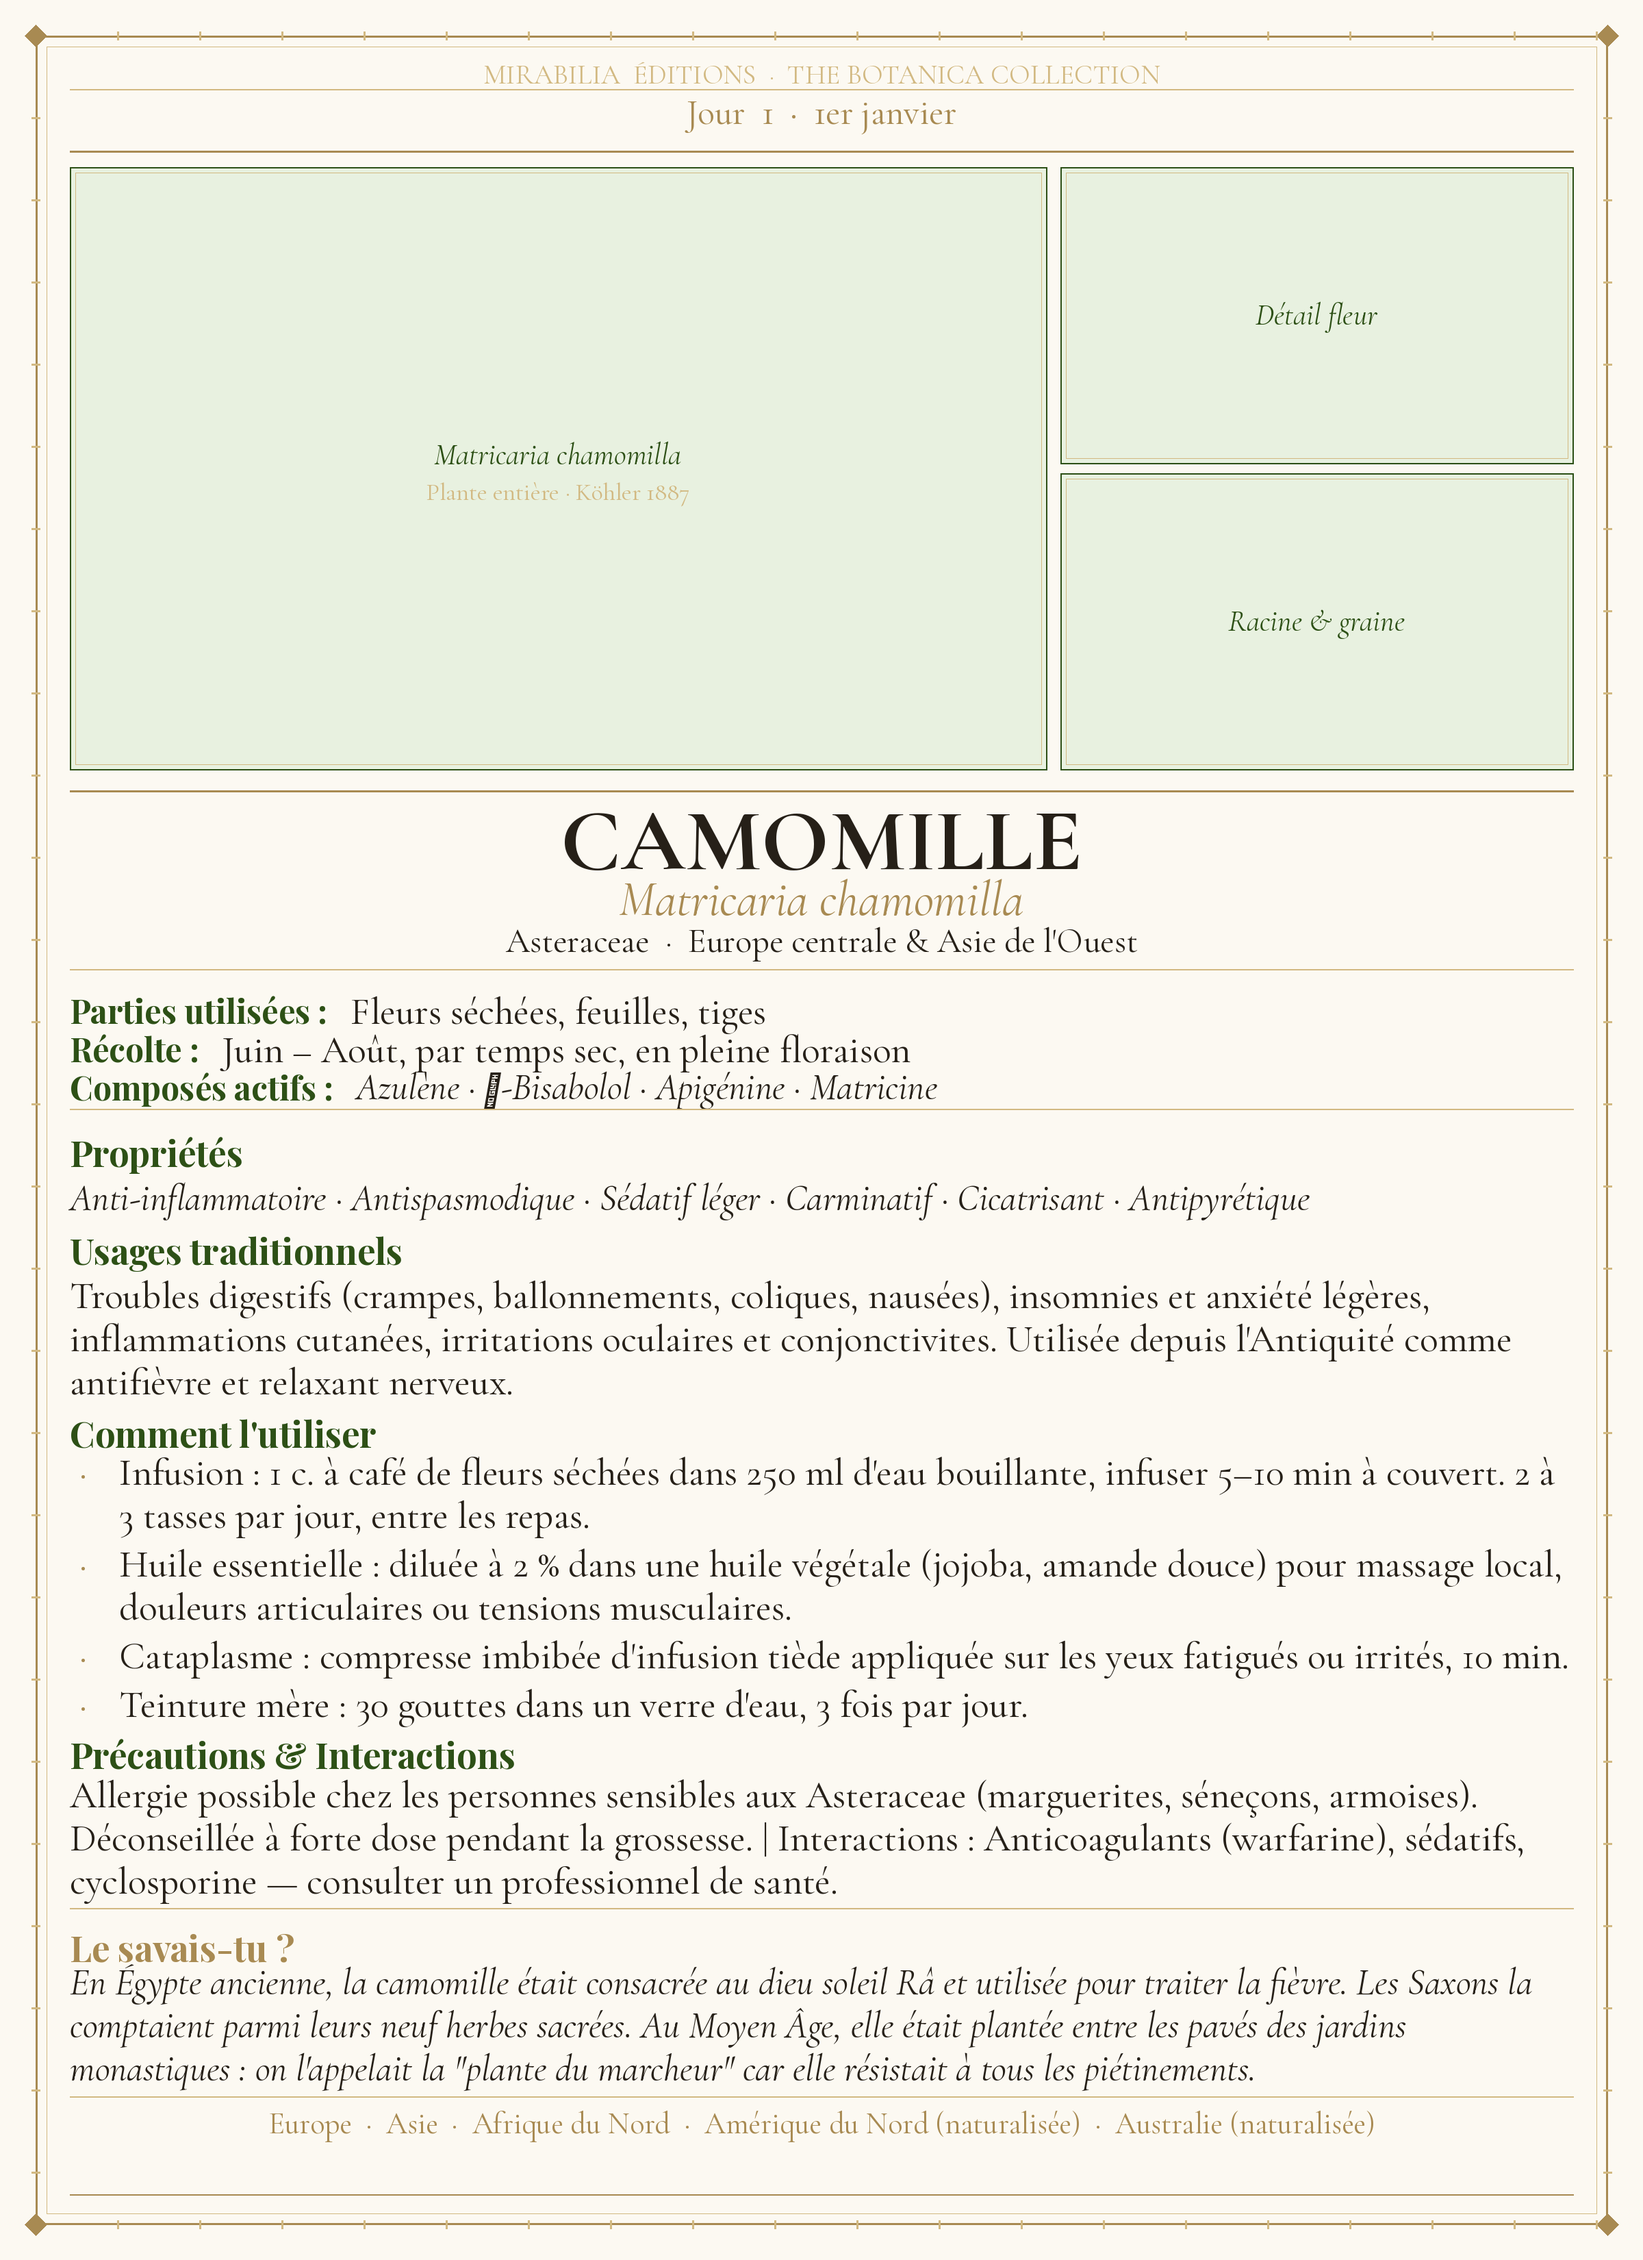
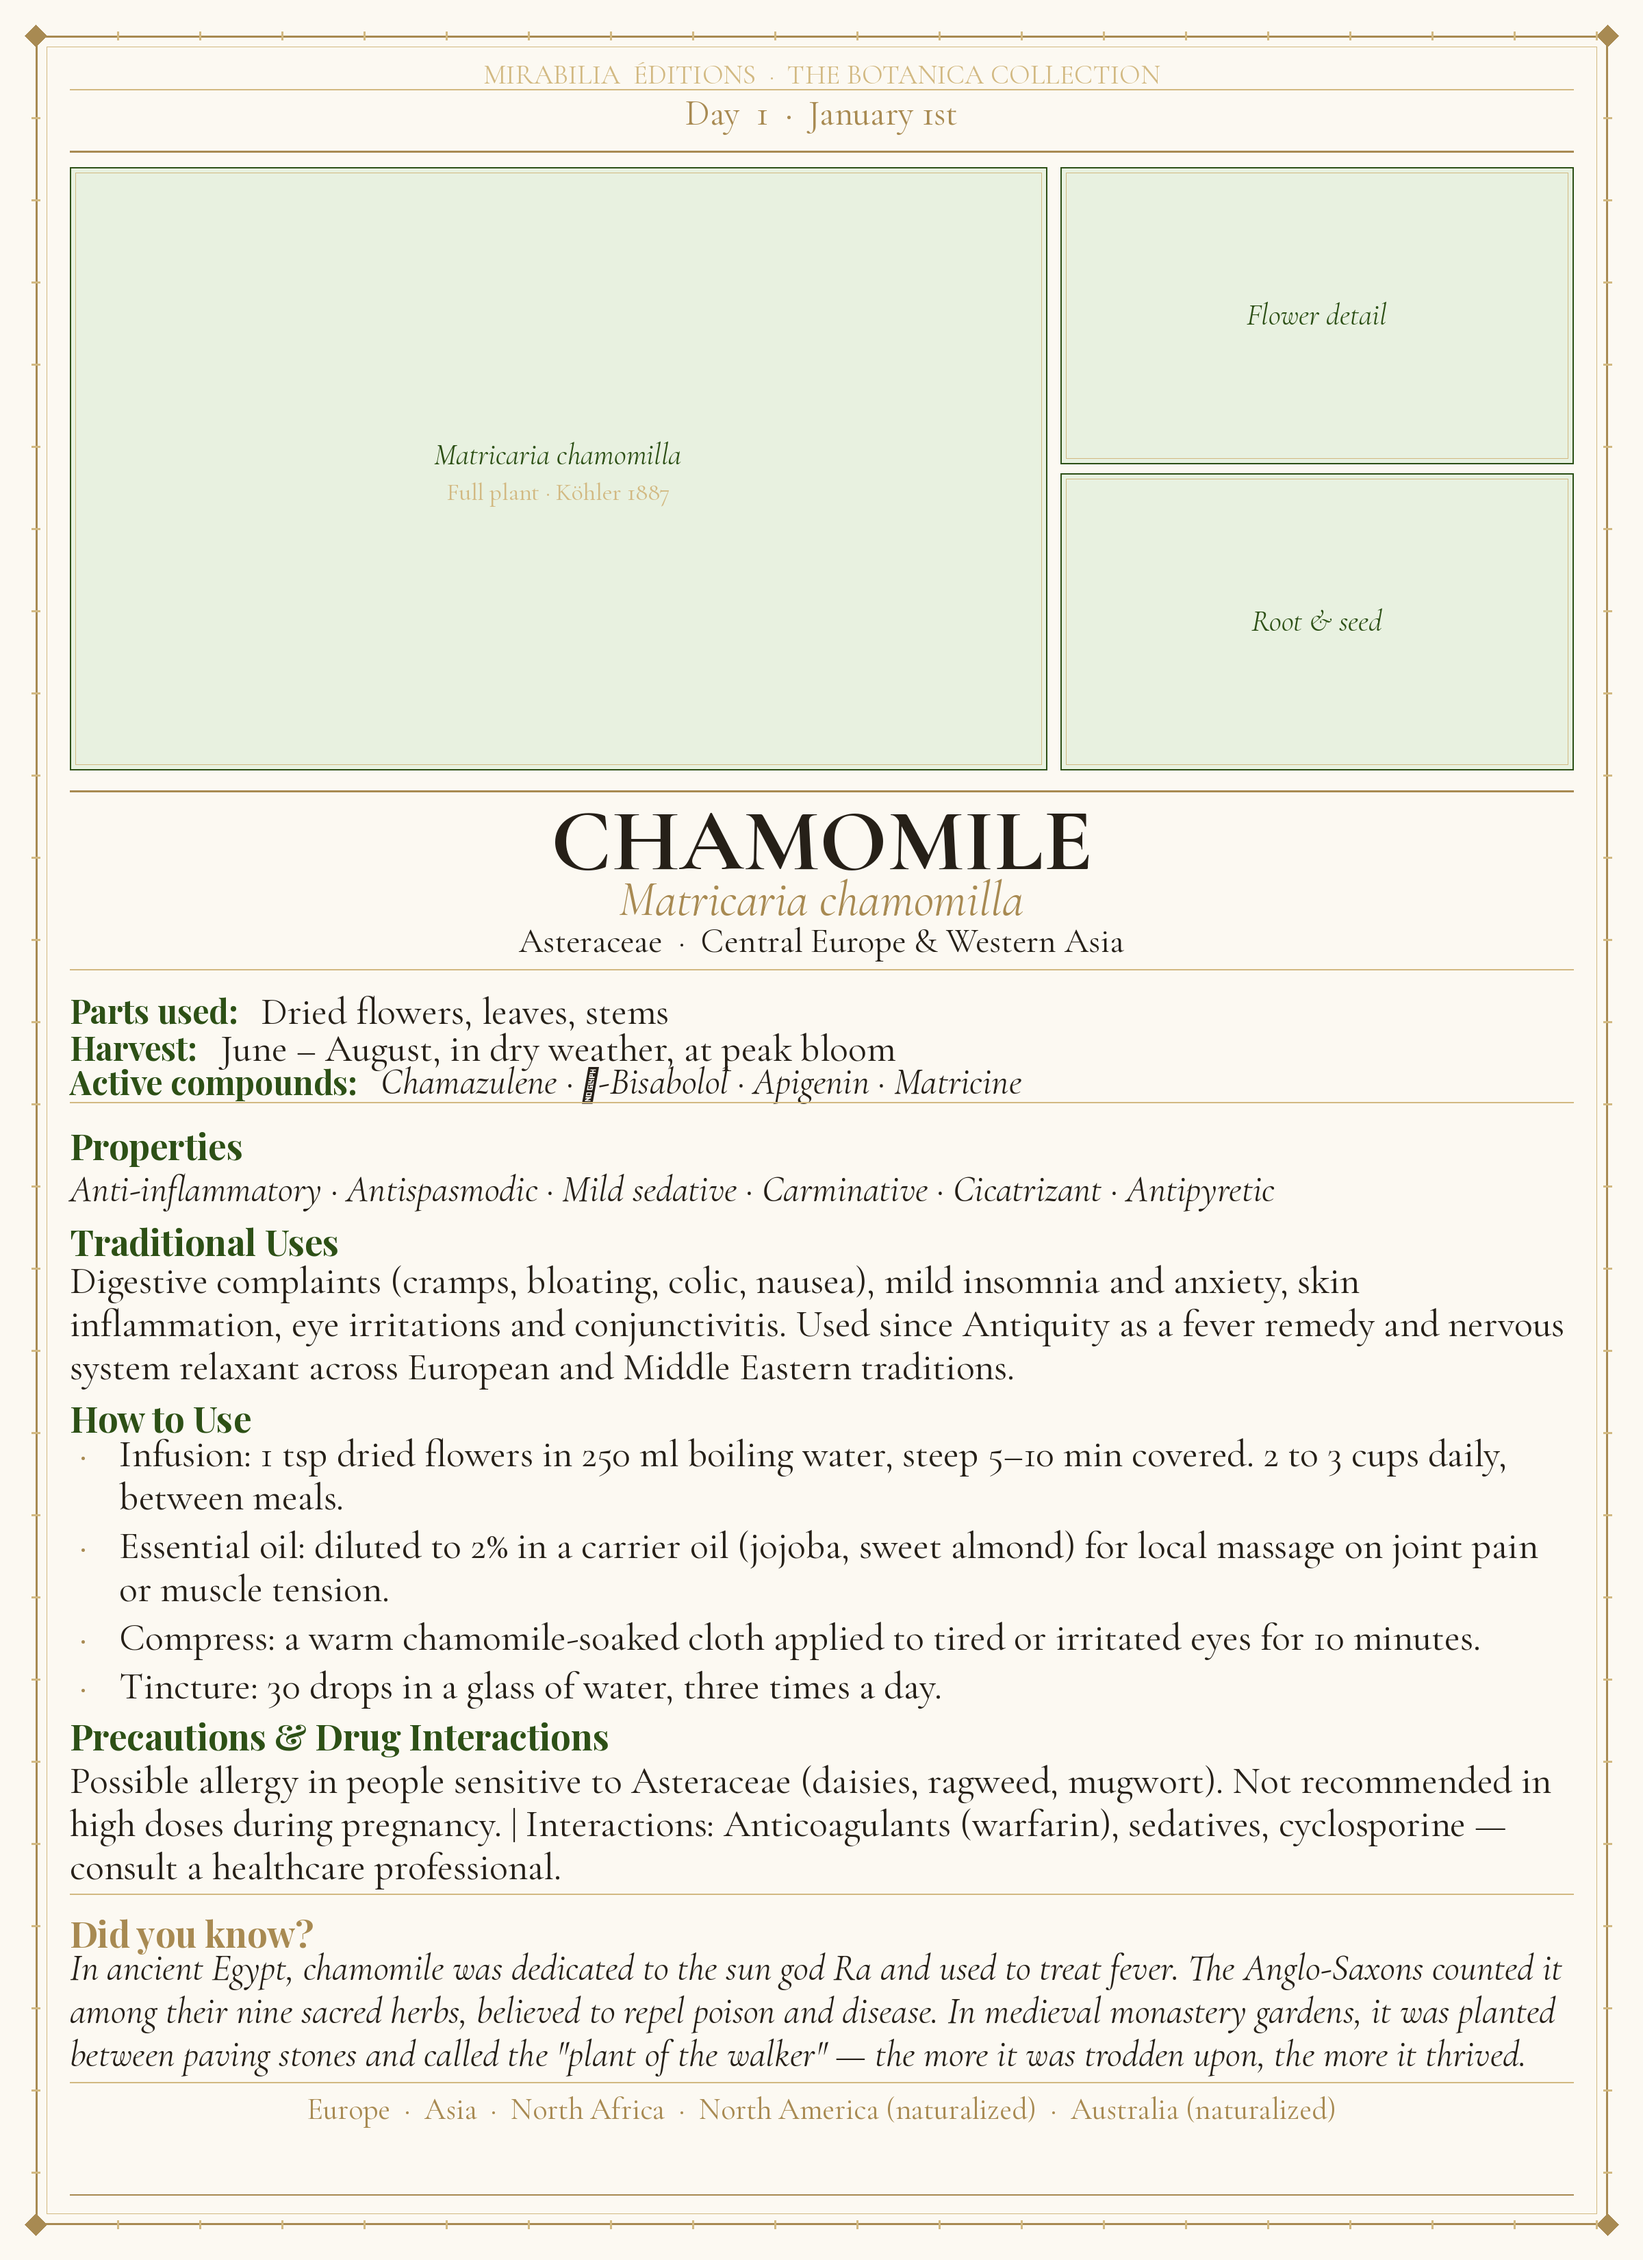
Translate Botanica page to English and add illustration path params
All section labels and content translated to English. Demo call
updated with chamomile content in English and illus_main/detail1/detail2
path params ready for Köhler illustration injection.

https://claude.ai/code/session_018BNd1Ba7eFukj4va47McZo

diff --git a/make_botanica_page.py b/make_botanica_page.py
@@ -196,7 +196,7 @@ def make_botanica_page(
     y += 18
 
     # ── Day + date ────────────────────────────────────────────────────
-    d.text((CX, y), f"Jour  {day_num}  ·  {date_str}",
+    d.text((CX, y), f"Day  {day_num}  ·  {date_str}",
            fill=GOLD, font=fn_day, anchor="mt")
     y += text_h("Ag", fn_day, d) + 22
 
@@ -216,14 +216,14 @@ def make_botanica_page(
         d.rectangle([MARGIN, y, main_x1, y + ILLUS_H], outline=LGOLD, width=1)
     else:
         illus_placeholder(img, d, MARGIN, y, main_x1, y + ILLUS_H,
-                          f"{name_la}", "Plante entière · Köhler 1887")
+                          f"{name_la}", "Full plant · Köhler 1887")
 
     # Detail 1
     if illus_detail1 and paste_illustration(img, illus_detail1, detail_x0, y, detail_x1, y + detail_h):
         d.rectangle([detail_x0, y, detail_x1, y + detail_h], outline=LGOLD, width=1)
     else:
         illus_placeholder(img, d, detail_x0, y, detail_x1, y + detail_h,
-                          "Détail fleur")
+                          "Flower detail")
 
     # Detail 2
     dy2 = y + detail_h + 14
@@ -231,7 +231,7 @@ def make_botanica_page(
         d.rectangle([detail_x0, dy2, detail_x1, dy2 + detail_h], outline=LGOLD, width=1)
     else:
         illus_placeholder(img, d, detail_x0, dy2, detail_x1, dy2 + detail_h,
-                          "Racine & graine")
+                          "Root & seed")
 
     y += ILLUS_H + 30
 
@@ -253,42 +253,42 @@ def make_botanica_page(
     y += 28
 
     # ── Quick-ref inline row ──────────────────────────────────────────
-    y = inline_pair(d, y, "Parties utilisées : ", parts_used, fn_label, fn_body)
-    y = inline_pair(d, y, "Récolte : ",           harvest,    fn_label, fn_body)
-    y = inline_pair(d, y, "Composés actifs : ",   active_compounds, fn_label, fn_props)
+    y = inline_pair(d, y, "Parts used: ",         parts_used,       fn_label, fn_body)
+    y = inline_pair(d, y, "Harvest: ",            harvest,          fn_label, fn_body)
+    y = inline_pair(d, y, "Active compounds: ",   active_compounds, fn_label, fn_props)
 
     hline(d, y, color=LGOLD, h=1)
     y += 28
 
     # ── Propriétés ────────────────────────────────────────────────────
-    y = sec(d, y, "Propriétés", fn_sec)
+    y = sec(d, y, "Properties", fn_sec)
     y = body_block(d, y, properties, fn_props)
 
-    # ── Usages traditionnels ──────────────────────────────────────────
-    y = sec(d, y, "Usages traditionnels", fn_sec)
+    # ── Traditional uses ──────────────────────────────────────────────
+    y = sec(d, y, "Traditional Uses", fn_sec)
     y = body_block(d, y, traditional_uses, fn_body)
 
-    # ── Comment l'utiliser ────────────────────────────────────────────
-    y = sec(d, y, "Comment l'utiliser", fn_sec)
+    # ── How to use ────────────────────────────────────────────────────
+    y = sec(d, y, "How to Use", fn_sec)
     for item in how_to_use:
         y = bullet(d, y, item, fn_body)
 
-    # ── Précautions & Interactions ────────────────────────────────────
-    y = sec(d, y, "Précautions & Interactions", fn_sec)
-    y = body_block(d, y, f"{precautions}  |  Interactions : {interactions}", fn_body)
+    # ── Precautions & Interactions ────────────────────────────────────
+    y = sec(d, y, "Precautions & Drug Interactions", fn_sec)
+    y = body_block(d, y, f"{precautions}  |  Interactions: {interactions}", fn_body)
 
     hline(d, y, color=LGOLD, h=1)
     y += 22
 
-    # ── Le savais-tu ──────────────────────────────────────────────────
-    d.text((MARGIN, y), "Le savais-tu ?", fill=GOLD, font=fn_sec)
+    # ── Did you know ──────────────────────────────────────────────────
+    d.text((MARGIN, y), "Did you know?", fill=GOLD, font=fn_sec)
     y += text_h("A", fn_sec, d) + 16
     y = body_block(d, y, cultural_note, fn_note, color=DARK)
 
     hline(d, y, color=LGOLD, h=1)
     y += 20
 
-    # ── Présente dans ─────────────────────────────────────────────────
+    # ── Found in ──────────────────────────────────────────────────────
     d.text((CX, y), regions, fill=GOLD, font=fn_tag, anchor="mt")
 
     # ── Bottom rule inside border ─────────────────────────────────────
@@ -298,58 +298,60 @@ def make_botanica_page(
     img.save(out_name)
 
 
-# ── Demo — Camomille ──────────────────────────────────────────────────────────
+# ── Demo — Chamomile ──────────────────────────────────────────────────────────
 
 make_botanica_page(
     day_num   = 1,
-    date_str  = "1er janvier",
-    name_fr   = "Camomille",
+    date_str  = "January 1st",
+    name_fr   = "Chamomile",
     name_la   = "Matricaria chamomilla",
     family    = "Asteraceae",
-    origin    = "Europe centrale & Asie de l'Ouest",
+    origin    = "Central Europe & Western Asia",
 
-    parts_used       = "Fleurs séchées, feuilles, tiges",
-    harvest          = "Juin – Août, par temps sec, en pleine floraison",
-    active_compounds = "Azulène · α-Bisabolol · Apigénine · Matricine",
+    parts_used       = "Dried flowers, leaves, stems",
+    harvest          = "June – August, in dry weather, at peak bloom",
+    active_compounds = "Chamazulene · α-Bisabolol · Apigenin · Matricine",
 
     properties = (
-        "Anti-inflammatoire  ·  Antispasmodique  ·  Sédatif léger  ·  "
-        "Carminatif  ·  Cicatrisant  ·  Antipyrétique"
+        "Anti-inflammatory  ·  Antispasmodic  ·  Mild sedative  ·  "
+        "Carminative  ·  Cicatrizant  ·  Antipyretic"
     ),
     traditional_uses = (
-        "Troubles digestifs (crampes, ballonnements, coliques, nausées), "
-        "insomnies et anxiété légères, inflammations cutanées, irritations "
-        "oculaires et conjonctivites. Utilisée depuis l'Antiquité comme "
-        "antifièvre et relaxant nerveux."
+        "Digestive complaints (cramps, bloating, colic, nausea), mild insomnia "
+        "and anxiety, skin inflammation, eye irritations and conjunctivitis. "
+        "Used since Antiquity as a fever remedy and nervous system relaxant "
+        "across European and Middle Eastern traditions."
     ),
     how_to_use = [
-        "Infusion : 1 c. à café de fleurs séchées dans 250 ml d'eau bouillante, "
-        "infuser 5–10 min à couvert. 2 à 3 tasses par jour, entre les repas.",
-        "Huile essentielle : diluée à 2 % dans une huile végétale (jojoba, amande douce) "
-        "pour massage local, douleurs articulaires ou tensions musculaires.",
-        "Cataplasme : compresse imbibée d'infusion tiède appliquée sur les yeux "
-        "fatigués ou irrités, 10 min.",
-        "Teinture mère : 30 gouttes dans un verre d'eau, 3 fois par jour.",
+        "Infusion: 1 tsp dried flowers in 250 ml boiling water, steep 5–10 min "
+        "covered. 2 to 3 cups daily, between meals.",
+        "Essential oil: diluted to 2% in a carrier oil (jojoba, sweet almond) "
+        "for local massage on joint pain or muscle tension.",
+        "Compress: a warm chamomile-soaked cloth applied to tired or irritated "
+        "eyes for 10 minutes.",
+        "Tincture: 30 drops in a glass of water, three times a day.",
     ],
     precautions   = (
-        "Allergie possible chez les personnes sensibles aux Asteraceae "
-        "(marguerites, séneçons, armoises). Déconseillée à forte dose "
-        "pendant la grossesse."
+        "Possible allergy in people sensitive to Asteraceae (daisies, ragweed, "
+        "mugwort). Not recommended in high doses during pregnancy."
     ),
     interactions  = (
-        "Anticoagulants (warfarine), sédatifs, cyclosporine — "
-        "consulter un professionnel de santé."
+        "Anticoagulants (warfarin), sedatives, cyclosporine — "
+        "consult a healthcare professional."
     ),
     cultural_note = (
-        "En Égypte ancienne, la camomille était consacrée au dieu soleil Râ "
-        "et utilisée pour traiter la fièvre. Les Saxons la comptaient parmi "
-        "leurs neuf herbes sacrées. Au Moyen Âge, elle était plantée entre "
-        "les pavés des jardins monastiques : on l'appelait la \"plante du marcheur\" "
-        "car elle résistait à tous les piétinements."
+        "In ancient Egypt, chamomile was dedicated to the sun god Ra and used "
+        "to treat fever. The Anglo-Saxons counted it among their nine sacred herbs, "
+        "believed to repel poison and disease. In medieval monastery gardens, it was "
+        "planted between paving stones and called the \"plant of the walker\" — "
+        "the more it was trodden upon, the more it thrived."
     ),
     regions = (
-        "Europe  ·  Asie  ·  Afrique du Nord  ·  "
-        "Amérique du Nord (naturalisée)  ·  Australie (naturalisée)"
+        "Europe  ·  Asia  ·  North Africa  ·  "
+        "North America (naturalized)  ·  Australia (naturalized)"
     ),
-    out_name = "/home/user/Ebook/botanica_demo.png",
+    illus_main    = "/home/user/Ebook/kohler_main.jpg",
+    illus_detail1 = "/home/user/Ebook/kohler_detail1.jpg",
+    illus_detail2 = "/home/user/Ebook/kohler_detail2.jpg",
+    out_name      = "/home/user/Ebook/botanica_demo.png",
 )
